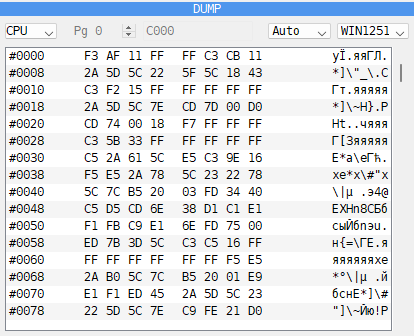
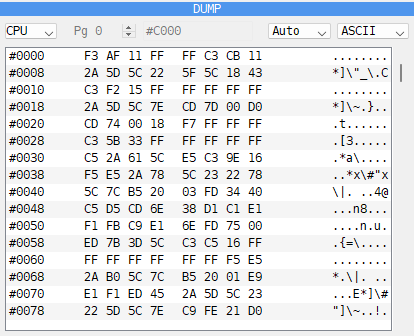
manual: HEX/DEC on the button, decimal padded with spaces, the tip a line each; the registers in decimal, a pair as two numbers with Split pairs; the DUMP's ASCII code page; DEC/HEX in Cheats; the pictures with the button, the DUMP, the Watcher and Cheats again

diff --git a/docs/manual/debugger-code.md b/docs/manual/debugger-code.md
@@ -82,21 +82,23 @@ forms, picked by **Numbers** on the **Debugger** page of **Options**:
 | `FFFFh` | `8000h` | `C9h` |
 | `65535` | `32768` | `201` |
 
-The button at the right of the toolbar shows the form, as `#FF` or `255`. A click on it
+The button at the right of the toolbar shows the base, **HEX** or **DEC**. A click on it
 switches between hex in the form picked and decimal, and so does Ctrl+Shift+H
 (**Decimal numbers** in [Debugger keys](hotkeys.md#debugger-keys)). The choice is kept
 between sessions.
 
-An address takes five characters in any form, `00056` in decimal, so the columns stay
-put. The numbers in commands are not padded: `LD A,201`, `JR 13986`, `RST 56`.
+An address takes five characters in any form, so the columns stay put: in decimal it is
+padded with spaces, never zeros, `   56`. The numbers in commands are not padded:
+`LD A,201`, `JR 13986`, `RST 56`.
 
 The addresses in the other panels follow the switch too: **DUMP**, **REG-DUMP**, the
 disk dump of the **FDD** panel, **STACK** (its words as well), the **Breakpoints** and
 **Labels List** lists, the **Watcher**, the **Heat map**, and the address and length
 fields of **Save dump**, **Load dump**, **Fill...**, **Sprite scanner** and the **Screen**
 panel. A page number in front of an address stays hex, as **MEMMAP** shows it:
-`05:#0123` or `05:00291`. The bytes of the listing and the dumps, the registers, the ports
-and the panels of the hardware stay hex.
+`05:#0123` or `05:  291`. The registers of the **CPU** panel and the **Watcher** follow it
+as well (see [CPU panel](debugger-cpu.md)). The bytes of the listing and the dumps, the
+ports and the panels of the hardware stay hex.
 
 ### Typing a number
 
@@ -124,16 +126,18 @@ The fields of **Save dump**, **Load dump**, **Fill...**, **Sprite scanner** and 
 front of the digits switches such a field to decimal, `#` or `$` back to hex, and X either
 way.
 
-While you type an address, a tip under the field shows what it is: the number in decimal,
-hex and binary, then where it is in memory now and its label:
+While you type an address, a tip under the field shows what it is: its label, if it has
+one, then the number in hex, decimal and binary:
 
 ```
-23732 -> #5CB4, 0101 1100 1011 0100
-RAM:05:#1CB4  P_RAMT
+P_RAMT
+HEX: #5CB4
+DEC: 23732
+BIN: 01011100 10110100
 ```
 
 Rest the mouse on an address of the listing, or on a number or a label in a command, for
-the same tip.
+the same tip, over the number.
 
 ## Moving around
 
@@ -416,7 +420,7 @@ The marks, the labels and the comments are kept together in a memory map file: s
 | {icon}`arrGreen` **Trace** | running the program step by step, see [Debugger](debugger.md) |
 | {icon}`other` **Tools** | **Search**, **Fill...**, **Sprite scanner** (see [DUMP panel](debugger-memory.md)), **Keyboard**, **Watcher** |
 | {icon}`settings` **Options** | how the listing looks and works, see below |
-| `#FF` or `255` | hex or decimal numbers, see [Hex or decimal](#hex-or-decimal) |
+| **HEX** or **DEC** | hex or decimal numbers, see [Hex or decimal](#hex-or-decimal) |
 | {icon}`refresh` (circular arrows) | **Reload snapshot & labels** |
 | {icon}`floppy` (floppy disk) | **Disasm to file**, **Load dump**, **Save dump**, **Load map**, **Save map** |
 

diff --git a/docs/manual/debugger-cpu.md b/docs/manual/debugger-cpu.md
@@ -13,12 +13,18 @@ A register that changed in the last step is marked in the **Changed** color of t
 **Debugger** page of **Options**. With **Split pairs** on, only the byte that changed is
 marked: after an instruction that changes only A, only the A half of AF lights up.
 
+The values are hex or decimal, as the Debugger's other numbers (see
+[Hex or decimal](debugger-code.md#hex-or-decimal)). In decimal a pair is two numbers with
+**Split pairs** on, a byte each, as `  1 255` for HL = 511, and each lights up on its own;
+with **Split pairs** off it is one number, `  511`.
+
 ## Changing registers
 
 ```{index} register; changing
 ```
 
-Click a value and type over it in hex. The change takes effect at once. In a value field:
+Click a value and type over it, in hex or in decimal as it is shown. The change takes
+effect at once. In a value field:
 
 - Up and Down, or the mouse wheel, add or subtract 1;
 - PgUp and PgDn add or subtract 256;
@@ -47,6 +53,7 @@ the corner of a title bar shows that the panel has such a menu.
 - **2 columns** - two on a line, each beside its pair: AF beside AF', PC beside SP.
 - **Wide** - a column for each kind: AF, BC, DE, HL; the alternate set; PC, SP, IX, IY; and
   IR, IM, IFF1, IFF2. The flags are one more column beside them, under the title **Flags**.
-- **Split pairs** - mark only the byte that changed, as above. On by default.
+- **Split pairs** - mark only the byte that changed, as above, and in decimal write a pair
+  as two numbers. On by default.
 
 ![The CPU panel in the Wide layout](images/dbg-cpu-wide.png)

diff --git a/docs/manual/debugger-memory.md b/docs/manual/debugger-memory.md
@@ -19,8 +19,9 @@ save it to a file and load it back. Which memory pages the CPU sees is in the
 1. **View** - **CPU**, **RAM**, **ROM** or **DIV**, and for the last three the page and its
    address.
 2. **Bytes per row** - **Auto**, **8/row**, **12/row** or **16/row**.
-3. **Code page** - **WIN1251**, **CP866** or **KOI8R**: how bytes from 128 to 255 show as
-   letters in the text column.
+3. **Code page** - **ASCII** (the default), **WIN1251**, **CP866** or **KOI8R**: how bytes
+   show in the text column. **ASCII** shows the characters from 32 to 126 and a dot for the
+   rest; the other three show bytes from 128 to 255 as Cyrillic letters.
 4. **Dump** - the address, the bytes in groups of four, and the same bytes as text.
 5. **Scrollbar** - drag it to move through memory.
 

diff --git a/docs/manual/cheats.md b/docs/manual/cheats.md
@@ -68,8 +68,8 @@ the machine has in its memory at the moment.
 ```{index} Custom POKEs, POKE; custom
 ```
 
-Type an address and a value, as BASIC's `POKE` takes them: in decimal on the **dec** row, or
-in hex on the **hex** row under it. Typing in one fills in the other. The row without the
+Type an address and a value, as BASIC's `POKE` takes them: in decimal on the **DEC** row, or
+in hex on the **HEX** row under it. Typing in one fills in the other. The row without the
 cursor is dimmed.
 
 Enter in **Address** goes on to **Value**. Enter in **Value** pokes the byte, moves the

diff --git a/docs/manual/debugger-watcher.md b/docs/manual/debugger-watcher.md
@@ -9,7 +9,7 @@ The **Watcher** window shows the registers and some places in memory, and follow
 while the machine runs. Open it with **Tools > Watcher** in the main window, or
 **Watcher** under the {icon}`other` **Tools** button over the listing.
 
-1. **CPU** - the registers.
+1. **CPU** - the registers, hex or decimal as in the [CPU panel](debugger-cpu.md).
 2. **MEMORY** - the watches, two rows each.
 3. The four memory banks, from `#0000` to `#C000`: ROM or RAM, and the page.
 
